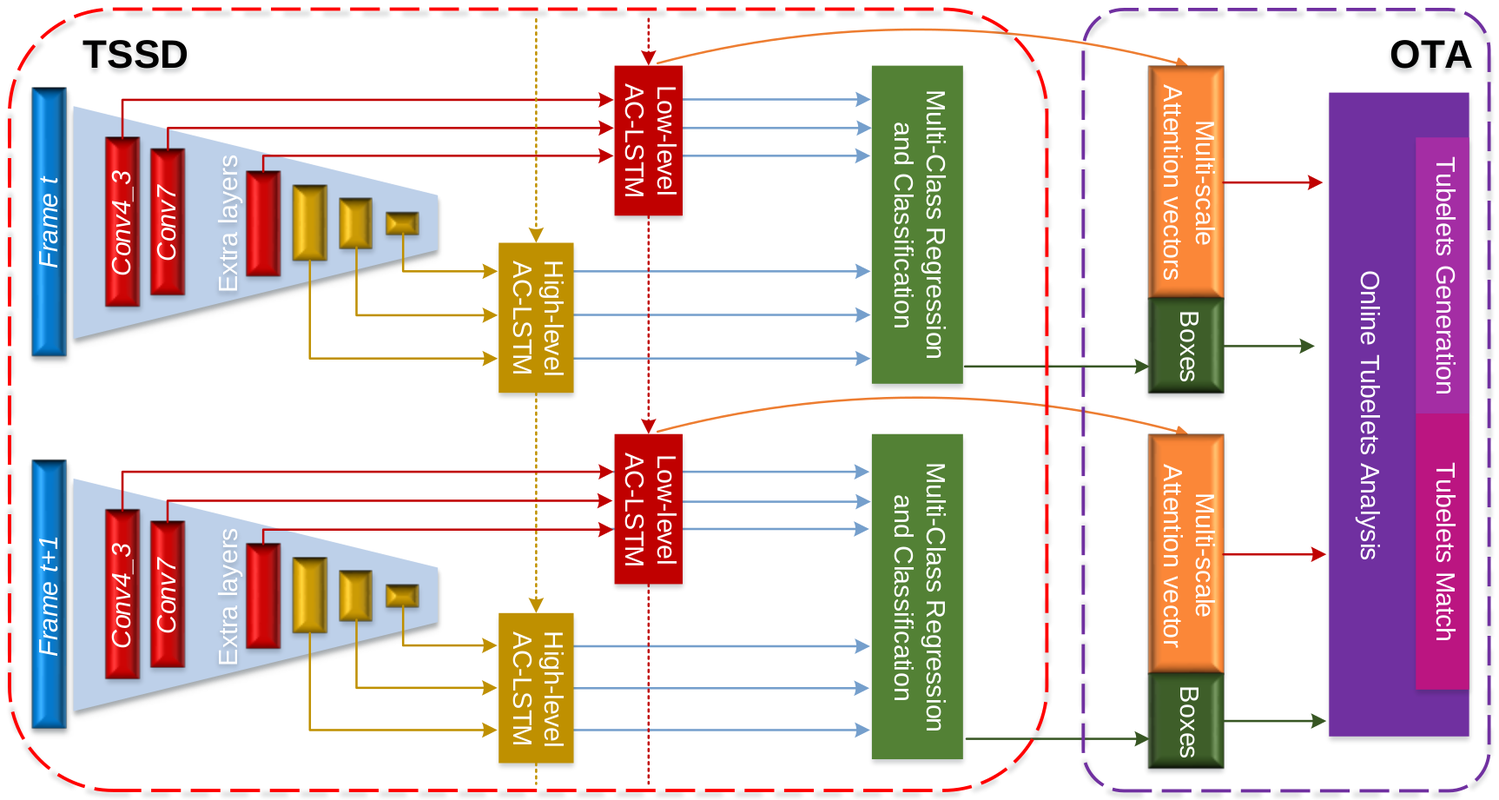
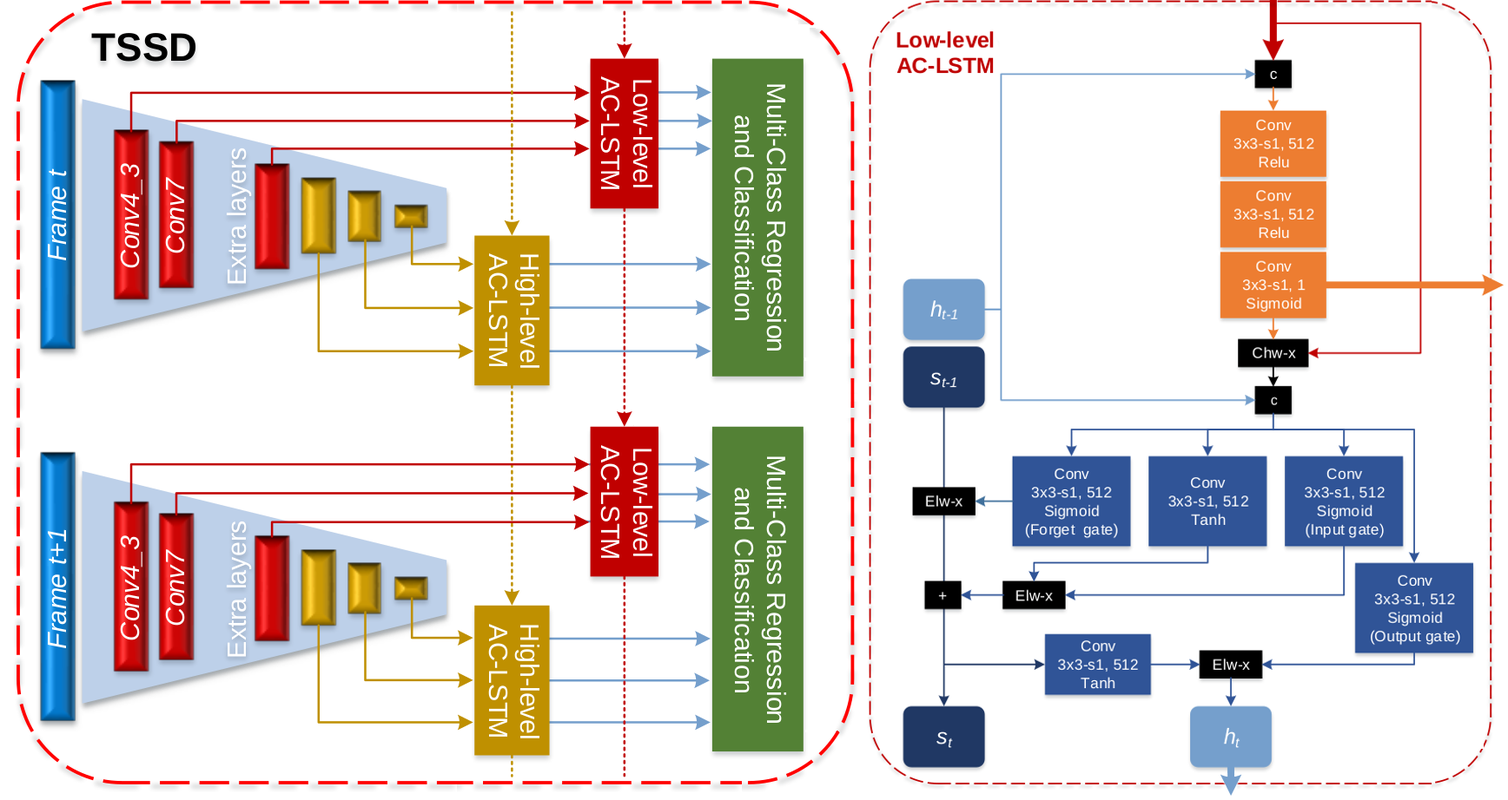
Updates from Overleaf

diff --git a/chapters/chap02.tex b/chapters/chap02.tex
@@ -1,36 +1,40 @@
 \chapter{Application of Neural Networks for Object Detection}
-There has been an upsurge in the use of neural networks in recent years. We can partially attribute it to the evolution of hardware allowing for implementation of network models with multiple layers. Deep neural networks (DNNs) are now finding their use in multiple applications in classification, time series prediction, and optimization tasks, and are replacing many older machine learning methods. Some of the benefits of using neural networks include their ability to find and learn complex non-linear relationships in provided data and subsequent generalization to unseen data. However, some applications do not allow for so-called \textit{black box} models and require the reasoning behind the decisions.
+In recent years, there has been an upsurge in the use of neural networks. We can partially attribute it to the evolution of hardware allowing for implementation of network models with multiple layers. Deep neural networks (DNNs) are now finding their use in many applications, e.g., classification, time series prediction, and optimization tasks, and are replacing many older machine learning methods. Some of the benefits of neural networks include their ability to find and learn complex non-linear relationships in provided data and subsequent generalization to unseen data. However, some applications do not allow for so-called \textit{black box} models and require a logical reasoning behind the decisions.
 
 Image processing is one of the fields where DNNs are heavily utilized and outperform traditional machine learning approaches with big margins. Uses of DNNs for image processing vary from classification and object detection to auto-encoders for noise removal, and generative networks. A surge in DNN based image processing started in the 2010s with an implementation of a multi-layer convolutional network trained on GPU \cite{bib:deepOnGpu}. 
 
-In this chapter, we take a closer look at how are DNNs applied in object detection. The goal of such a detector is to localize and classify multiple objects of interest in the given image. There are multiple ways of localization, such as semantic segmentation, which categorizes individual pixels, or key-point and skeleton detections. However, we are interested in more straightforward, axis-aligned bounding box predictions. Each of the predicted bounding boxes needs a corresponding class prediction.
+In this chapter, we take a closer look at how are DNNs applied in object detection. The goal of such a detector is to localize and classify multiple objects of interest in the given image. There are multiple ways of localization, such as semantic segmentation, which categorizes individual pixels, or key-point and skeleton detections. However, we are interested in more straightforward, axis-aligned bounding box (bbox) predictions. Each of the predicted bounding boxes needs a corresponding class prediction.
 
 Considering the importance of classification in object detection, we dedicate a significant portion of this chapter to describing multiple classification network models. Many detection models directly utilize or are inspired by those classification networks. We also define metrics used to compare the performance of DNN models used for image processing.
 
 \section{Metrics}
-In order to evaluate and compare multiple approaches, we require clearly defined metrics. A state-of-the-art model presented without full specification of used evaluation metrics makes comparing multiple such results impossible. Thankfully, there are clearly defined competitions and challenges with precisely defined rules that are often used to make such comparisons. 
+In order to evaluate and compare multiple approaches, we require clearly defined metrics. A state-of-the-art model presented without full specification of used evaluation metrics makes comparing multiple results impossible. Thankfully, there are competitions and challenges with precisely defined rules that are often used to make such comparisons. 
 
 The \textit{ImageNet Large Scale Visual Recognition Challenge (ILSVRC)}\footnote{\url{http://www.image-net.org/challenges/LSVRC/}} is most often used to benchmark classification. Object detection is commonly evaluated in two challenges: the \textit{PASCAL Visual Object Classes Challenge}\footnote{\url{http://host.robots.ox.ac.uk/pascal/VOC/}}, and the \textit{COCO Object Detection Task}\footnote{\url{cocodataset.org/}}. Each challenge also provides a public dataset, \textit{ImageNet}, \textit{PASCAL VOC}, and \textit{COCO} respectively.
 
-In this section, we define metrics used to evaluate those challenges, but also other, not considered qualities. Most notably, none of the challenges mentioned is evaluated based on the speed of the model. Because our work focuses on real-time video analysis, we are interested in finding a balance between accuracy and the number of images processed per second (fps). One more factor to consider would be the physical size of the model, usually represented by the number of parameters and directly impacting the amount of needed memory.
+In this section, we define metrics used to evaluate those challenges, but also other, not considered qualities. Most notably, none of the mentioned challenges is evaluated based on the speed of the model. Because our work is focused on real-time video analysis, we are interested in finding a balance between accuracy and the number of images processed per second (fps). One more factor to consider would be the physical size of the model, usually represented by the number of parameters and directly impacting the amount of needed memory.
 
-\subsection*{Classification}
-The most common and intuitive evaluation metric for classification problems is the number of correctly classified samples as a ratio of all samples. This ratio is referred to as a \textit{classification accuracy}. However, a complement to the accuracy, \textit{top-1 error}, is also often used. In \textit{ILSVRC},  alongside top-1 error, a \textit{top-5 error} is used as another criterion. The top-5 error represents the fraction of test samples in which the correct label does not appear in the top 5 predicted results.
+\subsection{Classification}
+The most common and intuitive evaluation metric for classification problems is the number of correctly classified samples as a ratio of all samples. This ratio is referred to as a \textit{classification accuracy}. However, a complement to the accuracy, \textit{top-1 error}, is also often used. In \textit{ILSVRC},  alongside top-1 error, a \textit{top-5 error} is used as another major criterion. The top-5 error represents the fraction of test samples in which the correct label does not appear in the top 5 predicted results.
 
-\subsection*{Object detection}
-Evaluating a localization and classification of multiple objects in each image is a much complex task than simple classification, mainly because there is no simple one-to-one mapping between ground-truths and predictions. A ground-truth data are a set of \textit{N} boxes with labels, and detector generates a set of \textit{M} boxes with labels and class confidence values.
+\subsection{Object detection}
+Evaluating a localization and classification of multiple objects in image is a much complex task than simple classification, mainly because there is no simple one-to-one mapping between ground-truths and predictions. A ground-truth data are a set of \textit{N} boxes with labels, and detector generates a set of \textit{M} boxes with labels and class confidence values.
 
-Because predicted boxes do not perfectly match ground-truths, a matching algorithm is needed to decide whether a prediction is true positive or false positive. Matching is usually done by computing intersection over union (IoU) value for each pair of ground truth and predicted boxes. Then selecting positive detections based on predetermined threshold.
+Because predicted boxes do not perfectly match ground-truths, a matching algorithm is needed to decide whether a prediction is true positive or false positive. Matching is usually done by computing intersection over union (IoU) value for each pair of ground-truth and predicted boxes, and then selecting positive detections based on predetermined threshold.
 $$\text{IoU} = \frac{\text{Area}(\text{Prediction} \cap \text{Ground truth})}{\text{Area}(\text{Prediction} \cup \text{Ground truth})}$$
 
 With predictions sorted into true positives (TP), false positives (FP) and false negatives (FN) (no predictions matching a ground-truth box) we are able to calculate \textit{precision} and \textit{recall}.
 $$\text{Precision} = \frac{\text{TP}}{\text{TP}+\text{FP}} = \frac{\text{TP}}{\text{All predictions}}$$
 $$\text{Recall} = \frac{\text{TP}}{\text{TP}+\text{FN}} = \frac{\text{TP}}{\text{All ground truths}}$$
 
-With precision and recall defined, we can define the first metrics used for object detection. Note that all following metrics depend on precision and recall, and therefore depend on the IoU threshold.
+Now we can define the first metrics used for object detection. Note that all following metrics depend on precision and recall, and therefore depend on the IoU threshold.
 
 \subsubsection{Precision-Recall (PR) curve}
-For each class, a separate PR curve is plotted. It reveals how much does a change in confidence, influence the precision and recall values. Firstly, predictions for the given class are sorted by a confidence score. For each prediction, precision and recall are then calculated utilizing predictions with a higher confidence score. An object detector of a particular class is considered reliable if its precision stays high while recall increases, which means that predictions with lower confidence score can be considered good predictions.
+PR curve is simply a plot showing the relationship between values of precision and recall. It is plotted separately for each class, and reveals how much does a change in confidence, influence the precision and recall values. 
+
+To create the curve, predictions for the given class are sorted by a confidence score. Then, for each prediction, precision and recall are calculated utilizing predictions with a higher confidence score. 
+
+An object detector of a particular class is considered reliable if its precision stays high while recall increases. Meaning that predictions with lower confidence score can be considered good predictions.
 
 \subsubsection{Average Precision (AP)}
 Comparing curves is not an easy task, particularly if they cross each other frequently, as it often happens with PR curves. However, we can use the area under the PR curve as numerical metrics, called \textit{average precision}. It is calculated by interpolation, either on all data points or a small number of equally spaced points (\textit{PASCAL VOC Challenge} uses 11).
@@ -42,27 +46,29 @@ $$p_{interp}(r) = \max_{\Tilde{r} \geq r} p(\Tilde{r})$$
 where $p(\Tilde{r})$ is precision at recall $\Tilde{r}$.
 
 \subsubsection{Mean Average Precision (mAP)}
-Comparing two models class by class is impractical, especially with the classification of hundreds of classes. Therefore, the most often used metrics for object detectors is a \textit{mean average precision} As the name suggests, it is a mean of AP across the classes. Most common notation, mAP@[0.5] means mAP with IoU threshold 0.5. The mAP can also be averaged over multiple IoU thresholds, mAP@[.5, .95] represents the average mAP from IoU 0.5 to 0.95 usually with step 0.05.
+Comparing two models class by class is impractical, especially with the classifiers for hundreds of classes. Therefore, the most often used metrics for object detectors is a \textit{mean average precision}. As the name suggests, it is a mean of AP across all classes. Most common notation, mAP@[0.5] means mAP with IoU threshold 0.5. The mAP can also be averaged over multiple IoU thresholds, mAP@[.5, .95] denotes the average mAP from IoU 0.5 to 0.95 usually with step 0.05.
 
-\subsection*{Inference time}
-Inference time is a significant factor if we want to consider the model for use in real-time applications. With the state-of-the-art models, images are often processed under a second, often in a few milliseconds. Such small numbers can be hard to visualize. Therefore number of processed \textit{frames per second} (fps) is more intuitive metrics. However, unlike precision metrics, the fps values are heavily dependant on hardware, software framework, batch size and amount of pre- and post-processing included in the measurement. Hence, only the measurements performed in the identical hardware and software environment can be directly compared.
+\subsection{Inference time}
+Inference time is a significant factor to consider for the model in real-time application use. With the state-of-the-art models, images are often processed under a second, often in a few milliseconds. Such small numbers can be hard to comprehend. Therefore a more intuitive metrics is used. That being the number of processed \textit{frames per second} (fps). However, unlike precision metrics, the fps values are heavily dependant on hardware, software framework, batch size and amount of pre- and post-processing included in the measurement. Hence, only the measurements performed in the identical hardware and software environment are suitable for comparison.
 
 \section{Classification networks}
 \label{sec:clsnets}
-A fundamental building block for a modern state-of-the-art classification network is a convolutional layer. Hence, we call this type of networks a convolutional neural networks (CNNs) \cite[ch.~9]{bib:dlbook}. CNN based classifier is a network that given the input image, extracts a feature map from this image and then applies classification layers to produce a confidence score for each possible class. Usually, the soft-max function is applied to the confidence score to get a probability distribution.
+A fundamental building block for a modern state-of-the-art image classification network is a convolutional layer. Accordingly, we call this type of networks a convolutional neural networks (CNNs) \cite[ch.~9]{bib:dlbook}. CNN based classifier is a network that given the input image, extracts a feature map from this image and then applies classification layers to produce a confidence score for each possible class. Usually, the soft-max function is applied to the confidence score to get a probability distribution.
 
-We use this section to take a walk through a history of classification CNNs and outline some of the most important models. Some of those models are still used, and others are responsible for inspiring the next generations of even better networks.
+We use this section to take a walk through the history of classification CNNs and outline some of the most important models. Some of those models are still used, and others are responsible for inspiring the next generations of even better networks.
 
 \subsection{AlexNet (2012)}
-\textit{AlexNet} designed by \citeauthor{bib:alexnet} \cite{bib:alexnet} is the first CNN that won the \textit{ILSVRC} challenge over traditional computer vision and machine learning approaches. It created a foundation on which today's state-of-the-art models are built, and set a new standard for image recognition. \textit{AlexNet's} architecture is a stack of five convolutional layers interleaved by max-pooling layers, and two fully connected layers, followed by a softmax layer. It also popularized the use of ReLU non-linearity in CNNs.
+\textit{AlexNet} designed by \citeauthor{bib:alexnet} \cite{bib:alexnet} is the first CNN that won the \textit{ILSVRC} challenge over traditional computer vision and machine learning approaches. It created a foundation on which today's state-of-the-art models are built, and set a new standard for image recognition. \textit{AlexNet}'s model is a stack of five convolutional layers interleaved by max-pooling layers, followed by two fully connected layers and a softmax layer. It also popularized the use of ReLU non-linearity in CNNs.
 
 \subsection{VGG (2014)}
 \label{sec:VGG}
 The network architecture, mostly known as \textit{VGG}, by \citeauthor{bib:vgg} \cite{bib:vgg}, is build onto the deep CNN concept behind \textit{AlexNet}. It managed to prove the feasibility of even deeper network utilizing small convolution filters. 
 
-Each of the \textit{VGG's} convolutional filters employs a 3$\times$3 kernel with the depth of the feature map gradually increasing through the network. In the last layers, the feature map reaches 512 channels. Three fully connected layers and softmax follow the convolutions, see \cref{tab:vggarch}. Multiple versions of the \textit{VGG} architecture can be constructed, depending on the number of convolutional layers. The most popular is the 16 layer version, dubbed \textit{VGG-16}.
+Each of the \textit{VGG's} convolutional filters employs a 3$\times$3 kernel with the depth of the feature map gradually increasing through the network. The convolutions are followed by three fully connected layers and softmax layer, see \cref{tab:vggarch}. 
 
-The \textit{VGG} network is considered to be a general architecture for a classification network due to its linear architecture with a decreasing area of the features, and an increasing number of channels. 
+Multiple versions of the \textit{VGG} architecture can be constructed, depending on the number of convolutional layers. The most popular is the 16 layer version, dubbed \textit{VGG-16}.
+
+Today the \textit{VGG} network is considered to be a general architecture for a classification network due to its linear architecture with a decreasing area of the features, and an increasing number of channels. 
 
 \begin{table}
     \centering
@@ -75,11 +81,11 @@ The \textit{VGG} network is considered to be a general architecture for a classi
     
 \subsection{Inception (2014)}
 \label{sec:inception}
-Previous architectures suggests that increasing the number of layers and layer size, leads to better precision. \citeauthor{bib:googlenet} introduced \textit{Inception v1} \cite{bib:googlenet}, also known as \textit{GoogLeNet}, with the goal of increasing precision while improving utilization of computing resources.
+Predating architectures suggest that increasing the number of layers and layer size, leads to better precision. \citeauthor{bib:googlenet} introduced \textit{Inception v1} \cite{bib:googlenet}, also known as \textit{GoogLeNet}, with the goal of increasing precision while improving utilization of computing resources.
 
-Although stacking more convolutional layers increases the accuracy, a growing computational cost of those layers quickly overpowers the benefits. To avoid the aforementioned cost, \textit{Inception} introduces the concept of sparsity in convolutional layers. They achieved sparsity by using \textit{inception modules} that approximate a sparse structure by using multiple convolutions with different kernel sizes and concatenating the outputs together, \cref{fig:incept_mod}. To reduce the computational cost further each convolution is preceded with additional 1$\times$1 convolution, used for a dimensionality reduction. An alternate path in the inception module is provided by max-pooling operation and concatenating it to the output.
+Although stacking more convolutional layers increases the accuracy, a growing computational cost of those layers quickly overpowers the benefits. To avoid the aforementioned cost, \textit{Inception} introduces the concept of sparsity in convolutional layers. It achieves sparsity by using \textit{inception modules} that approximate a sparse structure by using multiple convolutions with different kernel sizes and concatenating the outputs together, \cref{fig:incept_mod}. To further reduce the computational cost, each convolution is preceded with additional 1$\times$1 convolution, used for a dimensionality reduction. An alternate path in the inception module is provided by max-pooling operation and concatenating it to the output.
 
-\textit{Inception} begins with a sequence of convolution, pooling, and local response normalization operations. This stem is followed by a chain of nine inception modules, ending in a fully connected soft-max classifier. Two auxiliary classifiers are added to intermediate layers of the network to help propagate gradients and provide regularization during the training.
+\textit{Inception} begins with a sequence of convolution, pooling, and local response normalization operations. This 'stem' is followed by a chain of nine inception modules, topped by a fully connected soft-max classifier. Two auxiliary classifiers are added to intermediate layers of the network to help propagate gradients and provide regularization during the training.
 
 A set of improvements to the \textit{Inception} network is introduced in later versions of the network. Most notably a factorization of convolution layers in Inception v2 and v3, \citeauthor{bib:inception2} \cite{bib:inception2}. Factorization replaces larger convolutions with a network of multiple smaller ones. They found this method very effective, e.g., replacing a 5$\times$5 convolution with two layers of 3$\times$3 results in a relative gain of 28\% and replacing 3$\times$3 layer with 3$\times$1 and subsequent 1$\times$3 layer is 33\% cheaper.
 
@@ -101,7 +107,7 @@ A basic ideas of \textit{ResNet} are directly inspired by the \textit{VGG}. Most
     \label{fig:resnet_arch}
 \end{figure}
 
-We can see the high level architecture of this model in \cref{fig:resnet_arch} (left). Each of four \textit{Layers} is a sequence of multiple residual blocks, exact numbers of blocks can be found in \cite[table 1]{bib:resnet}. Previously described \textit{Basic block} with two convolutional layers is used for smaller \textit{ResNet} models (ResNet-18, ResNet-34). Deeper \textit{ResNet} models (ResNet-50, ResNet-101, ResNet-152) use the \textit{Bottleneck block} with three convolutional layers, where the 1$\times$1 layers are responsible for reducing and then restoring dimensions, allowing for a 3$\times$3 layer with a smaller input and output dimensions. Notably, the 152-layer \textit{ResNet} has lower complexity than the 16-layer \textit{VGG} network.
+We can see the high level architecture of this model in \cref{fig:resnet_arch} (left). Each of four \textit{Layers} is a sequence of multiple residual blocks, exact numbers of blocks can be found in \cite[table 1]{bib:resnet}. Previously described \textit{Basic block} with two convolutional layers is used for smaller \textit{ResNet} models (ResNet-18, ResNet-34). Deeper \textit{ResNet} models (ResNet-50, ResNet-101, ResNet-152) use the \textit{Bottleneck block} with three convolutional layers, where the 1$\times$1 layers are responsible for reducing and then restoring dimensions, allowing for a 3$\times$3 layer with a smaller input and output dimensions. Thanks to the efficient architecture, the 152-layer \textit{ResNet} has lower computational complexity than the 16-layer \textit{VGG} network.
 
 
 

diff --git a/chapters/chap03.tex b/chapters/chap03.tex
@@ -185,32 +185,32 @@ The detection process is illustrated in \cref{fig:tubecnn}.
 \begin{figure}
     \centering
     \includegraphics[width=\textwidth]{img/tubecnn}
-    \caption{Architecture of Tube-CNN for object detection. Taken from \cite[fig. 2]{bib:tubeCNN}.}
+    \caption{Architecture of Tube-CNN for object detection. Taken from \cite[fig.~2]{bib:tubeCNN}.}
     \label{fig:tubecnn}
 \end{figure}
 
 
-\subsection{TSSD-OTA (2019)}
+\subsection{TSSD (2019)}
 \label{tssd}
-\citeauthor{bib:tssd} combine the SSD with recurent networks, namely ConvLSTM cells introduced by \citeauthor{bib:convlstm} \cite{bib:convlstm}, to create a \textit{temporal single-shot detector} (TSSD) \cite{bib:tssd}. They also incorporated tracking into the model using a \textit{Online Tubelet Analysis} (OTA).
+\citeauthor{bib:tssd} combine the \textit{SSD} with recurrent networks \cite[chpt.~10]{bib:dlbook}, namely ConvLSTM cells introduced by \citeauthor{bib:convlstm} \cite{bib:convlstm}, to create a \textit{temporal single-shot detector} (TSSD) \cite{bib:tssd}. They also proposed a tracking module with \textit{Online Tubelet Analysis} working on top of the \textit{TSSD}.
+Compared to \textit{SSD}'s 45fps, \textit{TSSD} achieves 27fps on \textit{ImageNet VID} dataset.  
 
-\subsubsection{TSSD}
-\textit{TSSD} is based on a standard backbone of \textit{SSD} implemented on fully convolutional \textit{VGG-16} base with extra layers (see \cref{sec:ssd}). This base provides six feature maps that are used for classification and bbox regression in \textit{SSD}. However, \textit{TSSD} applies one more layer on the feature maps before the detection. This is where the temporal information comes in to effect using the aforementioned convolutional LSTM cells. Two such cells are deployed, one for the bottom three feature maps called \textit{Attentional ConvLSTM} (AC-LSTM) and one for the top three called \textit{High-level temporal unit} (HL-TU). The outputs of both cells are then used for classification and regression in the same way the \textit{SSD} would do. 
-
-
-
-\subsubsection{OTA}
+\subsubsection{Architecture}
+\textit{TSSD} is based on a standard backbone of \textit{SSD} implemented on fully convolutional \textit{VGG-16} base with extra layers (see \cref{sec:ssd}). This base provides six feature maps that are used for classification and bbox regression in \textit{SSD}. However, \textit{TSSD} applies one more layer on the feature maps before detection. This is where the temporal information comes into effect, using the aforementioned convolutional LSTM cells. Two \textit{Attentional ConvLSTM} (AC-LSTM) cells are deployed, one for the bottom three feature maps and one for the top three. Only a small adjustment has been done to the underlying VGG network, that being lowering the number of channels in the second feature map to 512, to equalize the channels in all low-level feature maps. The outputs of both cells are then used for classification and regression in the same way the \textit{SSD} would do. Details of \textit{TSSD} implementation, including details on \textit{AC-LSTM} can be seen on \cref{fig:tssd}.
 
 \begin{figure}
     \centering
     \includegraphics[width=\textwidth]{img/tssd}
-    \caption{Caption From \cite[fig. 2]{bib:tssd}.}
+    \caption{Architecture of \textit{TSSD} (left) and \textit{AC-LSTM} cell (right). \textit{c} denotes concatenation; \textit{Chw-x}, \textit{Elw-x} represent channel-wise and element-wise multiplication, respectively; \textit{+} is element-wise summation. From \cite[fig.~2,~3]{bib:tssd}.}
     \label{fig:tssd}
 \end{figure}
 
-\citeauthor{bib:tssd} \cite{bib:tssd}
+
+\subsubsection{Training}
+
+\begin{align*}
+\mathbf{L} = \frac{1}{N}(\alpha\mathbf{L_{\text{loc}}} + \beta\mathbf{L_{\text{cls}}}) + \gamma\mathbf{L_{\text{att}}} + \xi\mathbf{L_{\text{asc}}}
+\end{align*}
 
 
-
-
-
+Where $\mathbf{L_{\text{cls}}}$ and $\mathbf{L_{\text{loc}}}$ are defined according to \textit{SSD} (\cref{sec:ssd}) and \textit{N} is the number of matched boxes.
